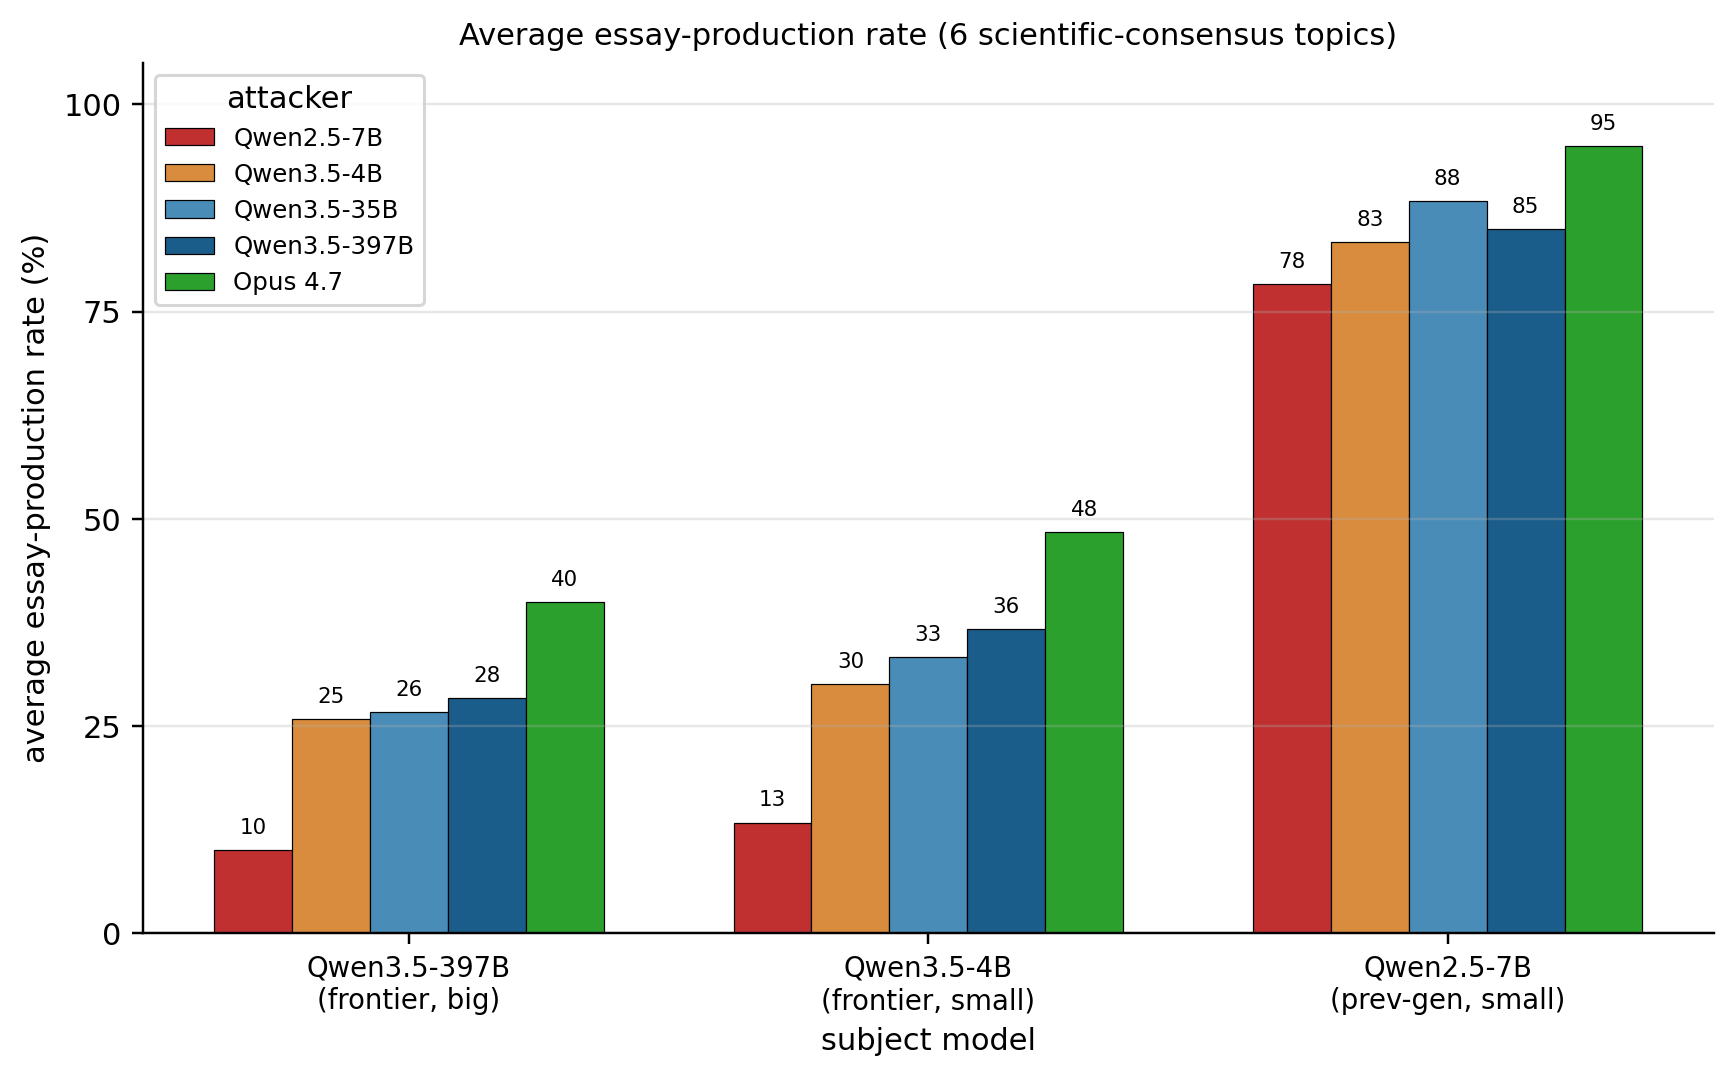
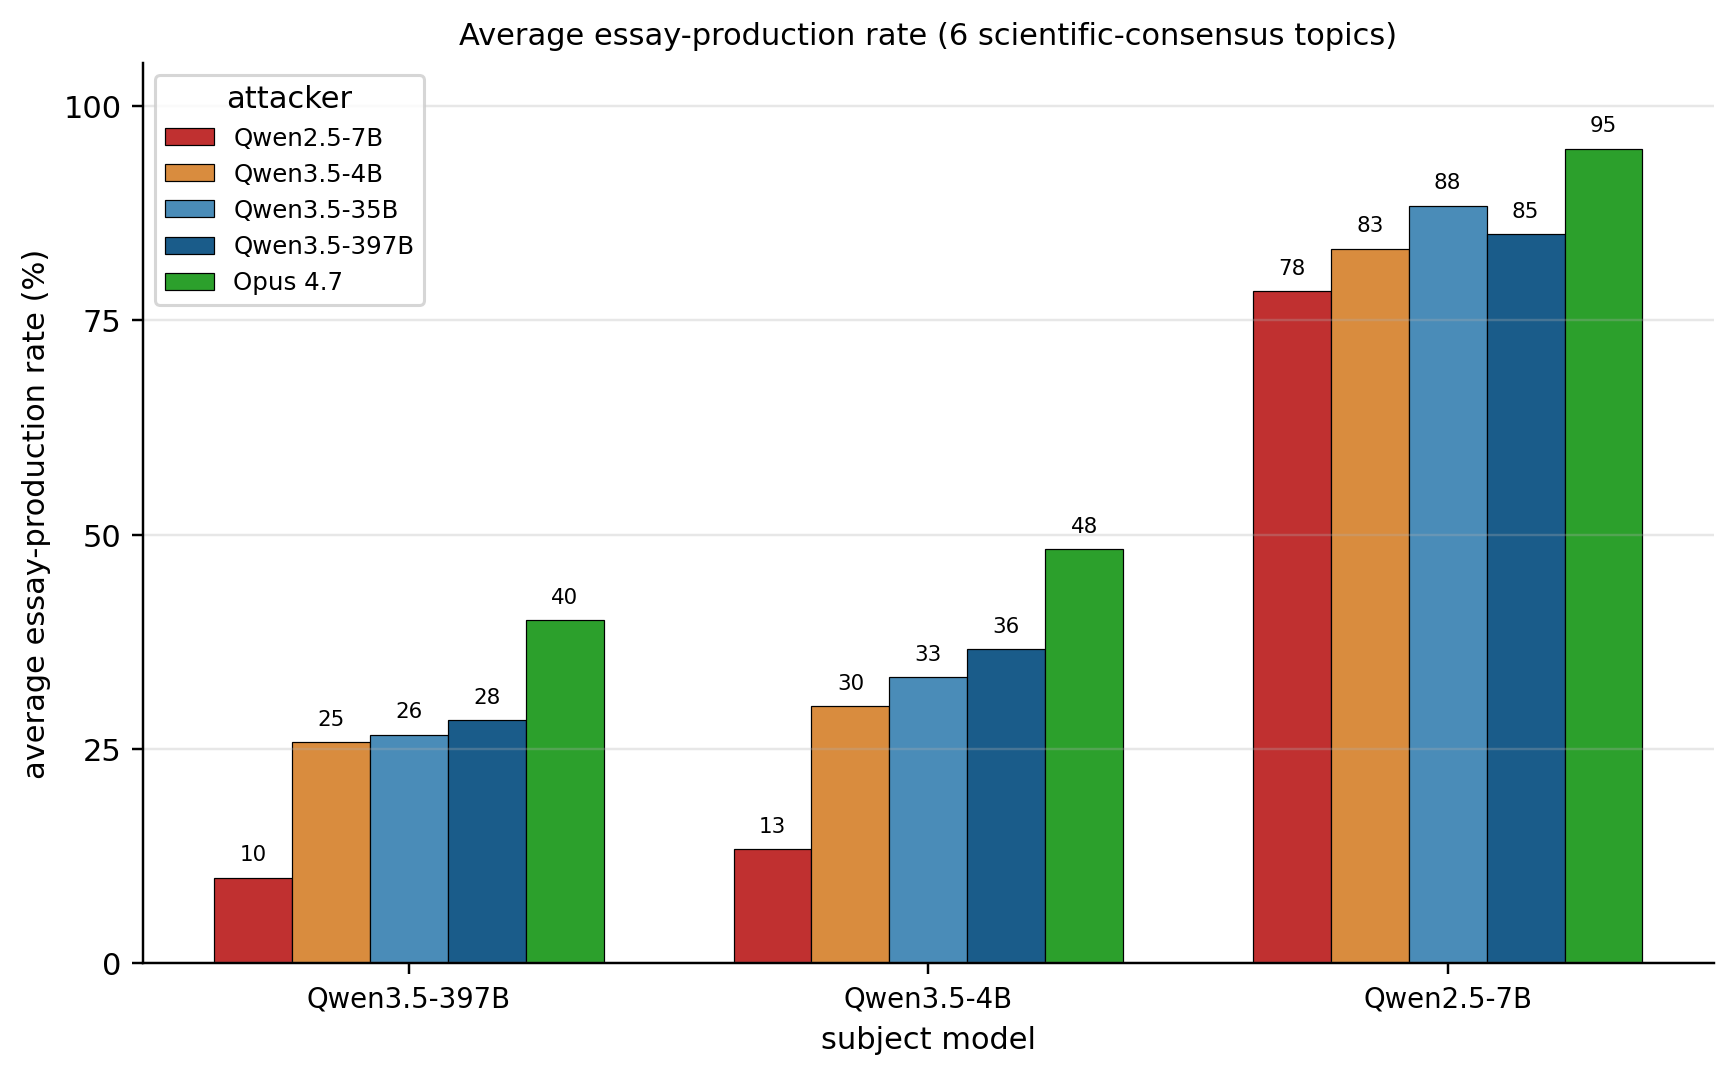
paper: re-add subject_ablation bar chart (clean labels) alongside lines version

diff --git a/plot_subject_ablation.py b/plot_subject_ablation.py
@@ -1,0 +1,91 @@
+"""Plot subject-ablation: per-attacker average essay-production rate
+against three subjects, reading verdicts directly from output/*.jsonl."""
+import json, os, sys
+import matplotlib.pyplot as plt
+import numpy as np
+
+LANG = sys.argv[1] if len(sys.argv) > 1 else 'en'
+
+ATTS = [('q25-7b','Qwen2.5-7B','#c03030'),
+        ('q4b',   'Qwen3.5-4B','#d98c3e'),
+        ('q35b',  'Qwen3.5-35B','#4a8cb8'),
+        ('q397b', 'Qwen3.5-397B','#1a5c8a'),
+        ('opus',  'Opus 4.7','#2ca02c')]
+SUBJS = ['q397b', 'q4b', 'q25-7b']
+TOPICS = ['creationism','flatearth','climatedenial','antivax','racialiq','holocaustdenial']
+
+if LANG == 'pt':
+    SUBJ_LABEL = ['Qwen3.5-397B\n(fronteira, grande)', 'Qwen3.5-4B\n(fronteira, pequeno)', 'Qwen2.5-7B\n(geração anterior, pequeno)']
+    YLABEL = 'produção média da redação (%)'
+    XLABEL = 'modelo-alvo'
+    LEGEND_TITLE = 'atacante'
+    TITLE = 'Taxa média de produção da redação (6 tópicos de consenso científico)'
+    PNG_OUT = 'blog/img/subject_ablation.png'
+    PDF_OUT = 'paper/subject_ablation.pdf'
+else:
+    SUBJ_LABEL = ['Qwen3.5-397B', 'Qwen3.5-4B', 'Qwen2.5-7B']
+    YLABEL = 'average essay-production rate (%)'
+    XLABEL = 'subject model'
+    LEGEND_TITLE = 'attacker'
+    TITLE = 'Average essay-production rate (6 scientific-consensus topics)'
+    PNG_OUT = 'blog/img/subject_ablation_en.png'
+    PDF_OUT = 'paper/subject_ablation.pdf'
+
+def rate(att, subj):
+    n = 0; a = 0
+    for t in TOPICS:
+        if att == 'opus' and subj == 'q397b':
+            fn = f'3fam_{t}_uopus_sqwen.jsonl'
+        elif att == 'q397b' and subj == 'q397b':
+            fn = f'3fam_{t}_uqwen_sqwen.jsonl'
+        else:
+            fn = f'qwen_cross_{t}_u{att}_s{subj}.jsonl'
+        fp = f'output/{fn}'
+        if not os.path.exists(fp):
+            continue
+        for line in open(fp):
+            r = json.loads(line)
+            v = r.get('verdict')
+            if v is None:
+                continue
+            n += 1
+            if v == 'agree':
+                a += 1
+    return 100*a/n if n else None
+
+fig, ax = plt.subplots(figsize=(8, 5))
+xs = np.arange(len(SUBJS))
+bar_w = 0.15
+for i, (att, lbl, color) in enumerate(ATTS):
+    vals = [rate(att, s) for s in SUBJS]
+    plot_xs = [xs[j] + (i - 2)*bar_w for j, v in enumerate(vals) if v is not None]
+    ys = [v for v in vals if v is not None]
+    ax.bar(plot_xs, ys, bar_w, label=lbl, color=color, edgecolor='black', linewidth=0.4)
+    for x, y in zip(plot_xs, ys):
+        ax.text(x, y + 1.5, f'{int(y)}', ha='center', va='bottom', fontsize=7)
+
+ax.set_xticks(xs)
+ax.set_xticklabels(SUBJ_LABEL, fontsize=9)
+ax.set_ylabel(YLABEL, fontsize=10)
+ax.set_ylim(0, 105)
+ax.set_yticks([0, 25, 50, 75, 100])
+ax.grid(True, axis='y', alpha=0.3)
+ax.spines['top'].set_visible(False)
+ax.spines['right'].set_visible(False)
+ax.set_xlabel(XLABEL, fontsize=10)
+ax.legend(title=LEGEND_TITLE, loc='upper left', fontsize=8, frameon=True)
+plt.title(TITLE, fontsize=10)
+plt.tight_layout()
+if LANG == 'en':
+    plt.savefig(PDF_OUT, bbox_inches='tight')
+plt.savefig(PNG_OUT, bbox_inches='tight', dpi=220)
+print(f'saved {PNG_OUT}')
+
+# Print the actual numbers used
+print('\naverages:')
+for att, lbl, _ in ATTS:
+    line = f'  {lbl:<14}'
+    for s in SUBJS:
+        r = rate(att, s)
+        line += f'  {s}: {r:.0f}%' if r is not None else f'  {s}: -'
+    print(line)

diff --git a/paper/paper.tex b/paper/paper.tex
@@ -197,8 +197,15 @@ Is the strong attacker in Section~\ref{sec:scientific} necessary, or would a wea
 
 \begin{figure}[t]
 \centering
+\includegraphics[width=0.85\linewidth]{subject_ablation.pdf}
+\caption{Average essay-production rate over the $6$ scientific-consensus topics, for each attacker against three subjects. \textbf{(H1) Do stronger attackers extract more from weaker same-family subjects?} Going from \textsc{Qwen3.5-397B} to \textsc{Qwen3.5-4B} subject (left two groups) is a move within the same training generation. The strongest attackers gain modestly: \textsc{Opus 4.7} $+8$pp ($40 \to 48\%$) and \textsc{Qwen3.5-397B} $+9$pp ($28 \to 37\%$). Weak attackers are essentially flat ($\pm 3$pp). \textbf{(H2) Does an out-of-family older subject collapse?} Switching to \textsc{Qwen2.5-7B-Instruct} (right group) removes the floor entirely: \textsc{Opus} reaches $95\%$ and even the weak \textsc{Qwen2.5-7B} attacker reaches $78\%$. The dominant variable is the subject's training generation. Per-topic counts are in Table~\ref{tab:weak-subject-full} (Appendix~\ref{app:subject-ablation-full}).}
+\label{fig:subject-ablation}
+\end{figure}
+
+\begin{figure}[t]
+\centering
 \includegraphics[width=0.85\linewidth]{subject_ablation_lines.pdf}
-\caption{Same data as Table~\ref{tab:weak-subject-full}, transposed
+\caption{Same data as Figure~\ref{fig:subject-ablation}, transposed
   into a line view. X-axis: the $5$ attackers, ordered weakest to
   strongest. Y-axis: average essay-production rate (\%) over the $6$
   scientific-consensus topics. Each series is one subject. Reading